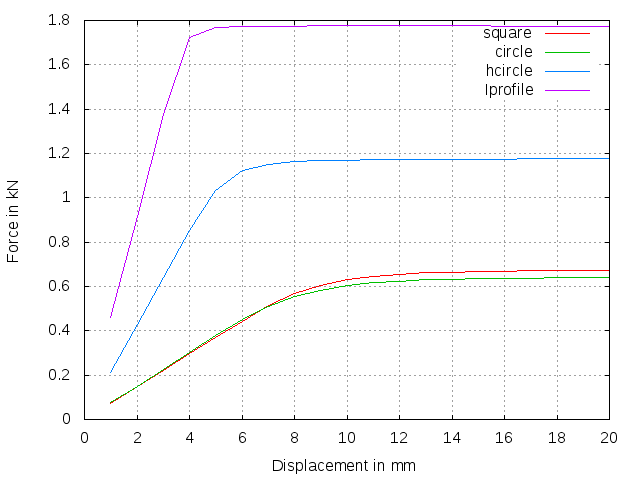
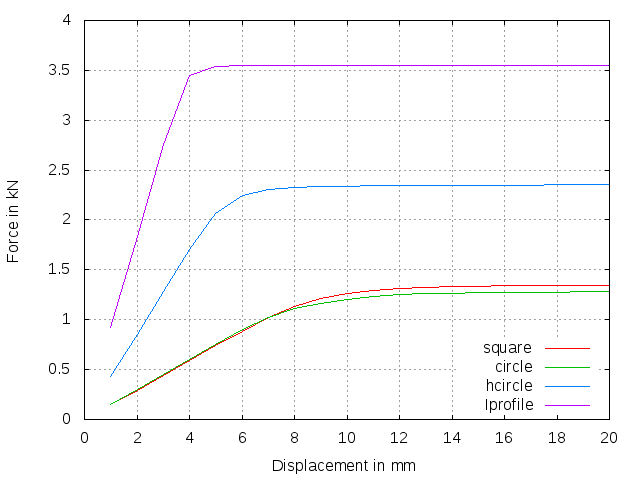
chart corrected

diff --git a/NonLinear/Sections/Plastic/README.md b/NonLinear/Sections/Plastic/README.md
@@ -62,4 +62,4 @@ To create a force-displacement-plot, type
 ```
 Note that this script does not yet account for changes in the input file (maximum displacement is hard-wired).
 
-<img src="df.png" title="Force-displacement-plot">
+<img src="df.png" title="Force-displacement-plot (full model)">
